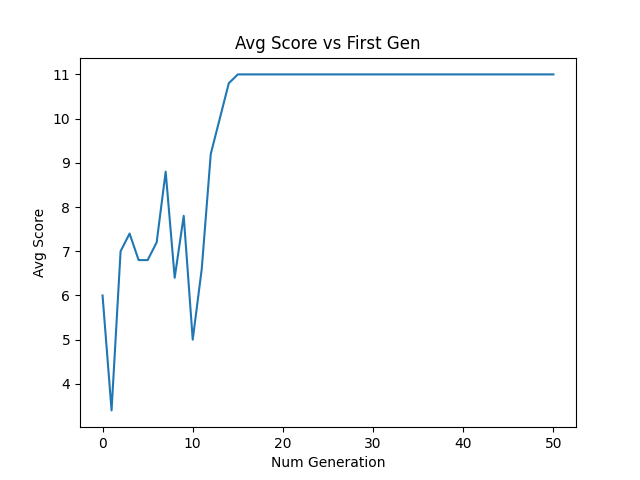
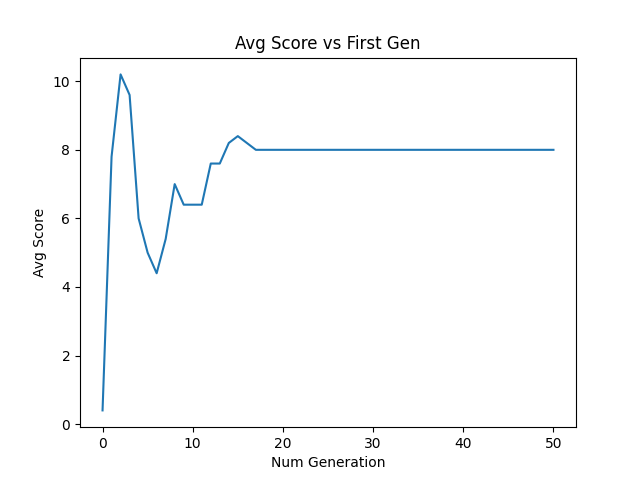
gen alg 1.0 DONE

diff --git a/src/tic_tac_toe/genetic_algorithm/ver_1/genetic_alg_test.py b/src/tic_tac_toe/genetic_algorithm/ver_1/genetic_alg_test.py
@@ -9,12 +9,11 @@ from dictionary_player import *
 from game import *
 from genetic_algorithm import *
 
-
+#vs First Gen
 first_gen_players = [DictPlayer() for _ in range(25)]
 get_scores(first_gen_players)
 generations = {0:first_gen_players}
 
-'''
 get_scores(first_gen_players, generations[0][:5])
 gen_scores = [s.mean([p.score for p in generations[0][:5]])]
 
@@ -29,32 +28,22 @@ plt.title('Avg Score vs First Gen')
 plt.xlabel('Num Generation')
 plt.ylabel('Avg Score')
 plt.savefig('src/tic_tac_toe/genetic_algorithm/ver_1/gen_alg.png')
-'''
+
 plt.clf()
 
-get_scores(first_gen_players, opponents=generations[0][:5])
+#vs Prev Gen
+first_gen_players = [DictPlayer() for _ in range(25)]
+get_scores(first_gen_players)
+generations = {0:first_gen_players}
+
+get_scores(first_gen_players, generations[0][:5])
 gen_scores = [s.mean([p.score for p in generations[0][:5]])]
 
-for gen_num in range(1, 31):
-  print('gen', gen_num)
+for gen_num in range(1, 51):
   generations[gen_num] = create_new_generation(generations[gen_num-1])
-  validate_generation(generations[gen_num-1])
-  validate_generation(generations[gen_num])
-
-  print('prev gen', [p.score for p in generations[gen_num-1]])
-  print('current gen', [p.score for p in generations[gen_num]])
-  
-  top_players = [copy.deepcopy(p) for p in generations[gen_num][:5]]
-  prev_gen = [copy.deepcopy(p) for p in generations[gen_num-1]]
-
-  get_scores(prev_gen, opponents=top_players)
-  
-
+  top_players = generations[gen_num][:5]
+  get_scores(generations[gen_num-1], top_players)
   gen_scores.append(s.mean([p.score for p in top_players]))
-  print('')
-
-
-print(gen_scores)
 
 plt.plot(generations.keys(), gen_scores)
 plt.title('Avg Score vs Prev Gen')

diff --git a/src/tic_tac_toe/genetic_algorithm/ver_1/dictionary_player.py b/src/tic_tac_toe/genetic_algorithm/ver_1/dictionary_player.py
@@ -1,5 +1,4 @@
 import random
-random.seed(1)
 
 class DictPlayer():
   def __init__(self, strategy=None):
@@ -29,9 +28,7 @@ class DictPlayer():
         open_spaces = self.find_open_indices(temp_board)
         move = random.choices(open_spaces)[0]
         strategy[temp_board] = move
-        self.strategy = strategy
-    # with open('strat.txt', 'w') as f:
-    #   f.write('dict = ' + str(strategy) + '\n')  
+        self.strategy = strategy 
   
   def find_open_indices(self, board_string):
     open_indices = []
@@ -60,20 +57,11 @@ class DictPlayer():
 
     if self.player_number == 2:
       board = [[int(i) for i in row] for row in self.swap_nums(board)]
-
     return board
 
   def swap_nums(self, board):
-    new_board = [[],[],[]]
-    for row_index, row in enumerate(board):
-      for i in row:
-        if i == 1:
-          new_board[row_index].append('2')
-        elif i == 2:
-          new_board[row_index].append('1')
-        else:
-          new_board[row_index].append(str(i))
-    return new_board
+    board = [[3-int(i) if int(i) != 0 else int(i) for i in row ] for row in board]
+    return [[str(i) for i in row] for row in board]
 
   def index_to_coords(self, index):
     return (int((index-index%3)/3), int(index%3))

diff --git a/src/tic_tac_toe/game.py b/src/tic_tac_toe/game.py
@@ -52,3 +52,11 @@ class Game():
       if self.winner is not None:
         return self.winner
     return self.winner
+  
+  def print_board(self):
+    print("\n-------")
+    for row in self.board:
+      for element in row[:-1]:
+        print(element, end="  ")
+      print(row[-1])
+    print("-------")
